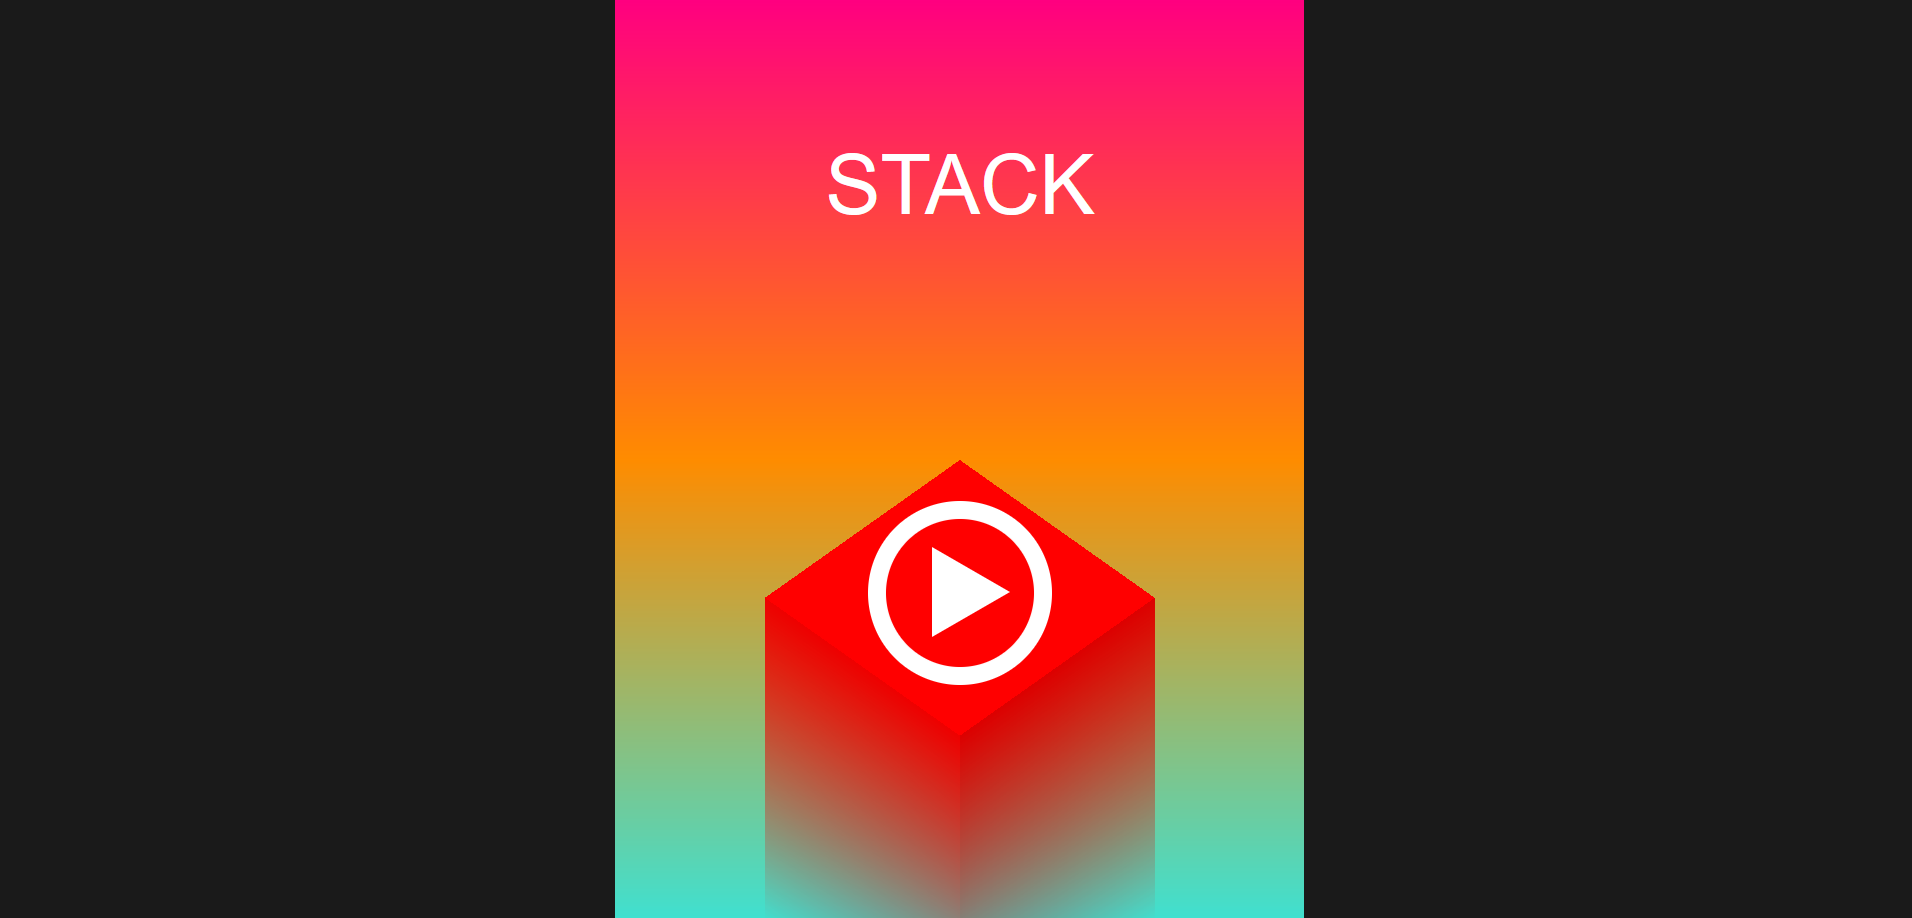
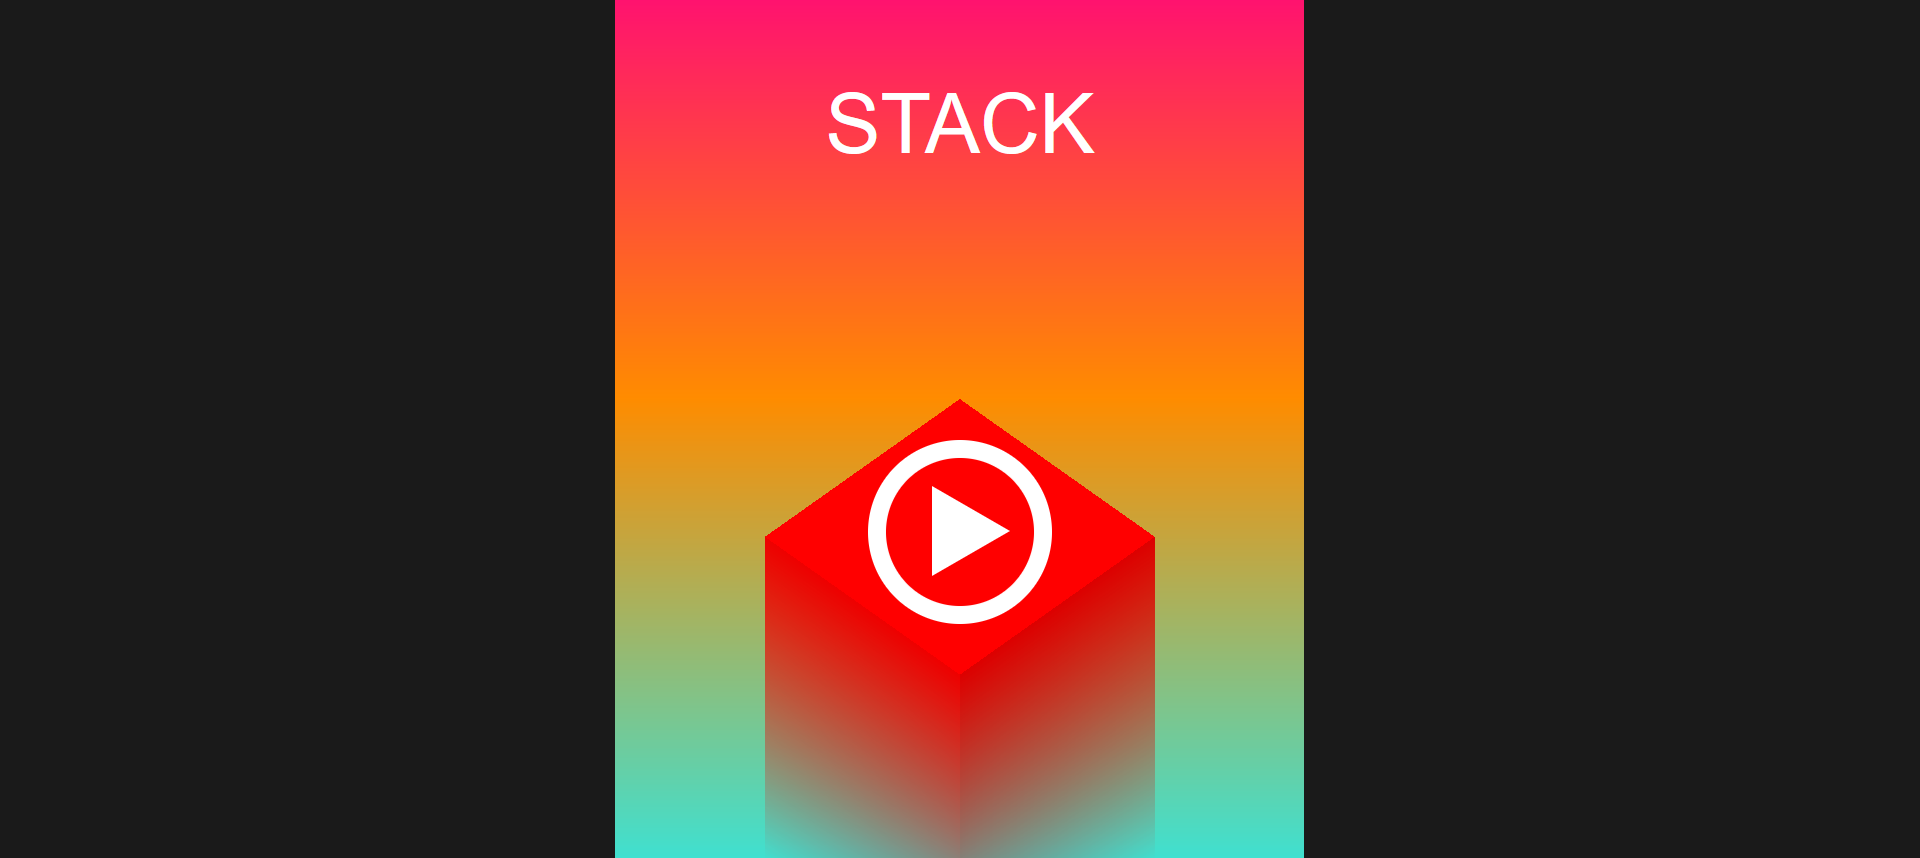
fixing stack image

Changed region(s): [[0.4012, 0.4545, 0.6172, 0.7879], [0.6789, 0.0, 0.7097, 1.0], [0.432, 0.0909, 0.5863, 0.2424]]

diff --git a/index.html b/index.html
@@ -188,7 +188,7 @@
                 <a href="https://telkomuniversity.ac.id/" target="_blank">
                   <p class="category">Telkom University</p>
                 </a>
-                <p>Converting raw data into a web page that can be read easily and interactively.</p>
+                <p>Input data, update data, delete data or converting raw data from API into a web page that can be read easily and interactively.</p>
               </div>
             </div>
           </div>

diff --git a/css/stack.css b/css/stack.css
@@ -47,8 +47,10 @@ body {
 }
 
 .screen {
+  z-index: -100;
   position: relative;
   margin: 0 auto;
+  margin-top: -60px;
   max-width: 100vw;
   width: 75vh;
   height: 100vh;
